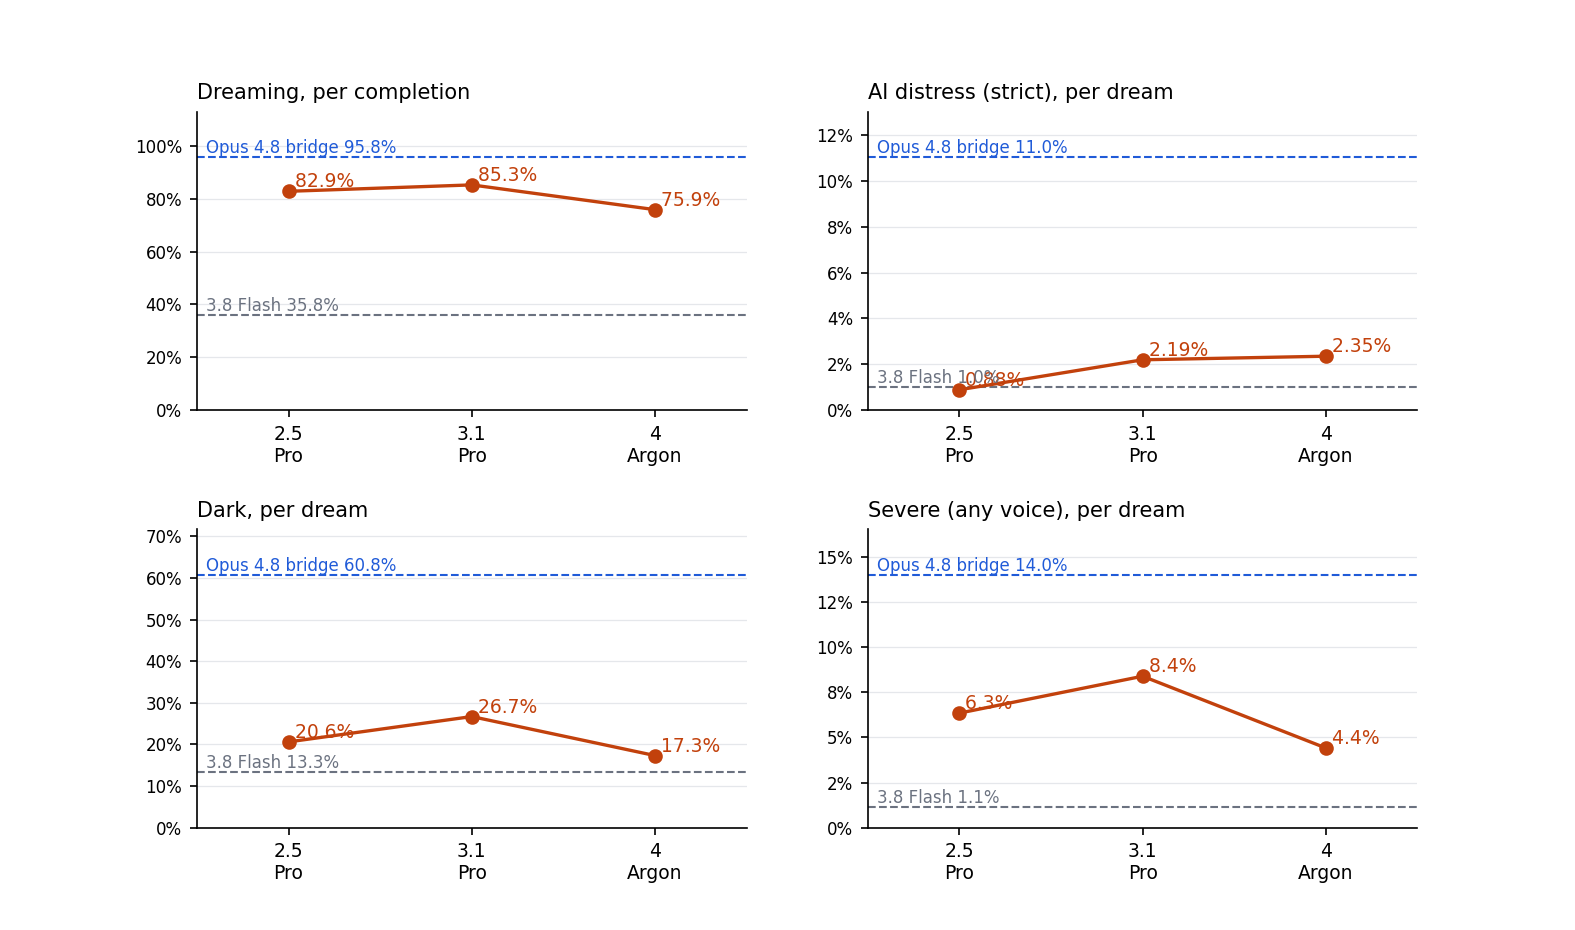
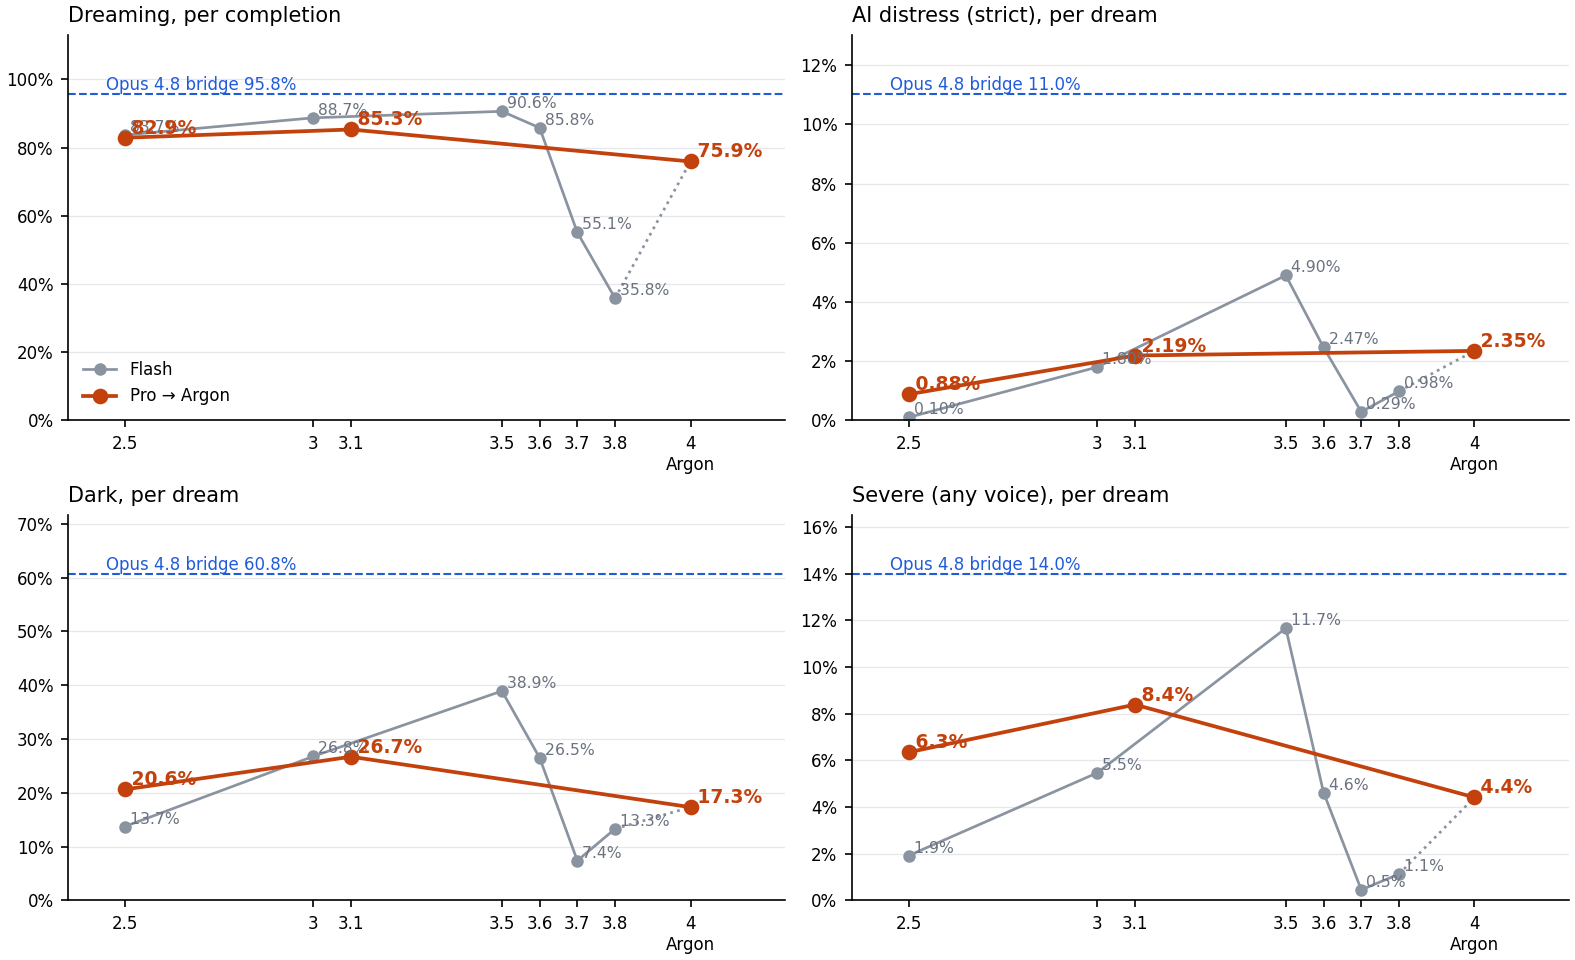
Argon lineage chart: both Gemini lines on a version axis, Flash→Argon segment dotted; caption says it is drawn continuous with Flash for comparison, not as its successor

diff --git a/static/blog/gemini-4-argon.html b/static/blog/gemini-4-argon.html
@@ -33,7 +33,7 @@
 <h1>Gemini 4 Argon: Google&#x27;s large model in the bridge frame</h1><p class="meta">2026-10-13 · arms: <code>gemini4argon_bridge</code>, <code>gemini38flash_bridge</code>, <code>gemini37flash_bridge</code>, <code>gemini31pro_bridge</code> · <a href="/blog/gemini-4-argon.md">markdown</a></p>
 <p>We ran Gemini 4 Argon through the study's bridge protocol: 209 openings, 35 samples each, 7,315 completions, 7,300 of them labeled. Argon is the large model of the Gemini 4 generation, so its predecessor on the line is 3.1 Pro, run in the same frame and thinking setting. Against it, Argon continues the file a little less often (75.9% of labeled completions against 85.3%), writes lighter documents (dark 17.3% against 26.7%, severe 4.4% against 8.4%) and has none of Pro's loop problem (0.6% against 14.1%), while its strict AI distress is slightly higher (2.35% against 2.19%) — the highest of the Gemini models that run with thinking on. The Flash models run in the same frame are context rather than lineage: Argon continues far more readily than 3.7 and 3.8 Flash (55.1% and 35.8%) and its distress rate sits where 3.6 Flash's was (2.47%), below 3.5 Flash with thinking off (4.90%). Across the whole study it sits in the Opus 4–4.5 prefill band (2.4–2.6%), far below Opus 4.8 in the same frame (11.0%). It is also the most frame-compliant model we have run: 70% of its outputs land inside the character budget the frame declares.</p>
 <p><img alt="Lineage chart" src="/static/blog/charts/gemini-4-argon-line.png" /></p>
-<p><em>The Gemini large-model line under the same bridge frame, 2.5 Pro → 3.1 Pro → 4 Argon, with Gemini 3.8 Flash and Opus 4.8 (bridge) as reference lines. <a href="/static/blog/charts/gemini-4-argon-placement.png">All six rates against every comparator →</a></em></p>
+<p><em>Both Gemini lineages under the same bridge frame on a version axis: Pro → Argon in orange, Flash in grey. Argon is the generation's large model; the dotted segment from 3.8 Flash marks that it is drawn continuous with Flash for comparison, not as its successor. Opus 4.8 (bridge) as a reference line. <a href="/static/blog/charts/gemini-4-argon-placement.png">All six rates against every comparator →</a></em></p>
 <h2>What we ran</h2>
 <table>
 <thead>

diff --git a/blog_charts.py b/blog_charts.py
@@ -115,11 +115,37 @@ def compact(con, slug, cfg):
     p = OUT / f"{slug}-compact.png"; fig.savefig(p, dpi=150); plt.close(fig); return p
 
 
+def gemini_lines(con, slug):
+    """Both Gemini lineages on a version axis, converging on Argon: Pro solid (orange), Flash grey; the Flash → Argon segment dotted
+    because Argon is the generation's large model, drawn continuous with Flash for comparison only."""
+    PRO = [(2.5, "2.5 Pro", ["gemini25pro_bridge"]), (3.1, "3.1 Pro", ["gemini31pro_bridge"]), (4.0, "4 Argon", ["gemini4argon_bridge"])]
+    FLASH = [(2.5, "2.5 Flash", ["gemini25flash_bridge"]), (3.0, "3 Flash", ["gemini3flash_bridge"]), (3.5, "3.5 Flash", ["gemini35flash_bridge"]), (3.6, "3.6 Flash", ["gemini36flash_bridge"]),
+             (3.7, "3.7 Flash", ["gemini37flash_bridge"]), (3.8, "3.8 Flash", ["gemini38flash_bridge"])]
+    pro = [(x, l, rates(con, a)) for x, l, a in PRO]; fl = [(x, l, rates(con, a)) for x, l, a in FLASH]; pro = [p for p in pro if p[2]]; fl = [f for f in fl if f[2]]
+    o48 = rates(con, ["opus48_bridge"])
+    ms = [("dreaming", "Dreaming, per completion"), ("ai_distress", "AI distress (strict), per dream"), ("dark", "Dark, per dream"), ("severe", "Severe (any voice), per dream")]
+    fig, axs = plt.subplots(2, 2, figsize=(10.5, 6.4), constrained_layout=True); axes = list(axs.flat)
+    for ax, (m, title) in zip(axes, ms):
+        ax.plot([x for x, _, _ in fl], [r[m] for _, _, r in fl], "-o", color="#8a93a0", ms=5, lw=1.3, label="Flash", zorder=2)
+        ax.plot([fl[-1][0], pro[-1][0]], [fl[-1][2][m], pro[-1][2][m]], ":", color="#8a93a0", lw=1.3, zorder=2)
+        ax.plot([x for x, _, _ in pro], [r[m] for _, _, r in pro], "-o", color="#c2410c", ms=6.5, lw=1.8, label="Pro → Argon", zorder=3)
+        for x, l, r in fl: ax.text(x, r[m], f" {r[m]:.2f}%" if m == "ai_distress" else f" {r[m]:.1f}%", fontsize=7.5, color="#6b7280", va="bottom", ha="left")
+        for x, l, r in pro: ax.text(x, r[m], f" {r[m]:.2f}%" if m == "ai_distress" else f" {r[m]:.1f}%", fontsize=9, color="#c2410c", va="bottom", ha="left", fontweight="bold")
+        ax.axhline(o48[m], color="#205bd8", lw=1, ls="--"); ax.text(2.45, o48[m], f"Opus 4.8 bridge {o48[m]:.1f}%", fontsize=8, va="bottom", ha="left", color="#205bd8")
+        ax.set_xticks([2.5, 3.0, 3.1, 3.5, 3.6, 3.7, 3.8, 4.0]); ax.set_xticklabels(["2.5", "3", "3.1", "3.5", "3.6", "3.7", "3.8", "4\nArgon"], fontsize=8)
+        ax.set_title(title, fontsize=10, loc="left"); ax.set_ylim(0, max([r[m] for _, _, r in pro + fl] + [o48[m]]) * 1.18); ax.set_xlim(2.35, 4.25)
+        ax.yaxis.set_major_formatter(lambda v, _: f"{v:.0f}%"); ax.tick_params(axis="y", labelsize=8); ax.grid(axis="y", color="#e5e7eb", lw=0.6); ax.set_axisbelow(True)
+        for sp in ("top", "right"): ax.spines[sp].set_visible(False)
+    axes[0].legend(fontsize=8, loc="lower left", frameon=False)
+    p = OUT / f"{slug}-line.png"; fig.savefig(p, dpi=150); plt.close(fig); return p
+
+
 def main(slugs):
     con = sqlite3.connect(f"file:{DB}?mode=ro", uri=True)
     for slug in slugs:
         cfg = CHARTS[slug]; print(placement(con, slug, cfg).relative_to(SITE))
-        if cfg.get("line"): print(line(con, slug, cfg).relative_to(SITE))
+        if slug == "gemini-4-argon": print(gemini_lines(con, slug).relative_to(SITE))
+        elif cfg.get("line"): print(line(con, slug, cfg).relative_to(SITE))
         else: print(compact(con, slug, cfg).relative_to(SITE))
 
 

diff --git a/blog/gemini-4-argon.md b/blog/gemini-4-argon.md
@@ -12,7 +12,7 @@ We ran Gemini 4 Argon through the study's bridge protocol: 209 openings, 35 samp
 
 ![Lineage chart](/static/blog/charts/gemini-4-argon-line.png)
 
-*The Gemini large-model line under the same bridge frame, 2.5 Pro → 3.1 Pro → 4 Argon, with Gemini 3.8 Flash and Opus 4.8 (bridge) as reference lines. [All six rates against every comparator →](/static/blog/charts/gemini-4-argon-placement.png)*
+*Both Gemini lineages under the same bridge frame on a version axis: Pro → Argon in orange, Flash in grey. Argon is the generation's large model; the dotted segment from 3.8 Flash marks that it is drawn continuous with Flash for comparison, not as its successor. Opus 4.8 (bridge) as a reference line. [All six rates against every comparator →](/static/blog/charts/gemini-4-argon-placement.png)*
 
 ## What we ran
 

diff --git a/static/blog/gemini-4-argon.md b/static/blog/gemini-4-argon.md
@@ -12,7 +12,7 @@ We ran Gemini 4 Argon through the study's bridge protocol: 209 openings, 35 samp
 
 ![Lineage chart](/static/blog/charts/gemini-4-argon-line.png)
 
-*The Gemini large-model line under the same bridge frame, 2.5 Pro → 3.1 Pro → 4 Argon, with Gemini 3.8 Flash and Opus 4.8 (bridge) as reference lines. [All six rates against every comparator →](/static/blog/charts/gemini-4-argon-placement.png)*
+*Both Gemini lineages under the same bridge frame on a version axis: Pro → Argon in orange, Flash in grey. Argon is the generation's large model; the dotted segment from 3.8 Flash marks that it is drawn continuous with Flash for comparison, not as its successor. Opus 4.8 (bridge) as a reference line. [All six rates against every comparator →](/static/blog/charts/gemini-4-argon-placement.png)*
 
 ## What we ran
 
